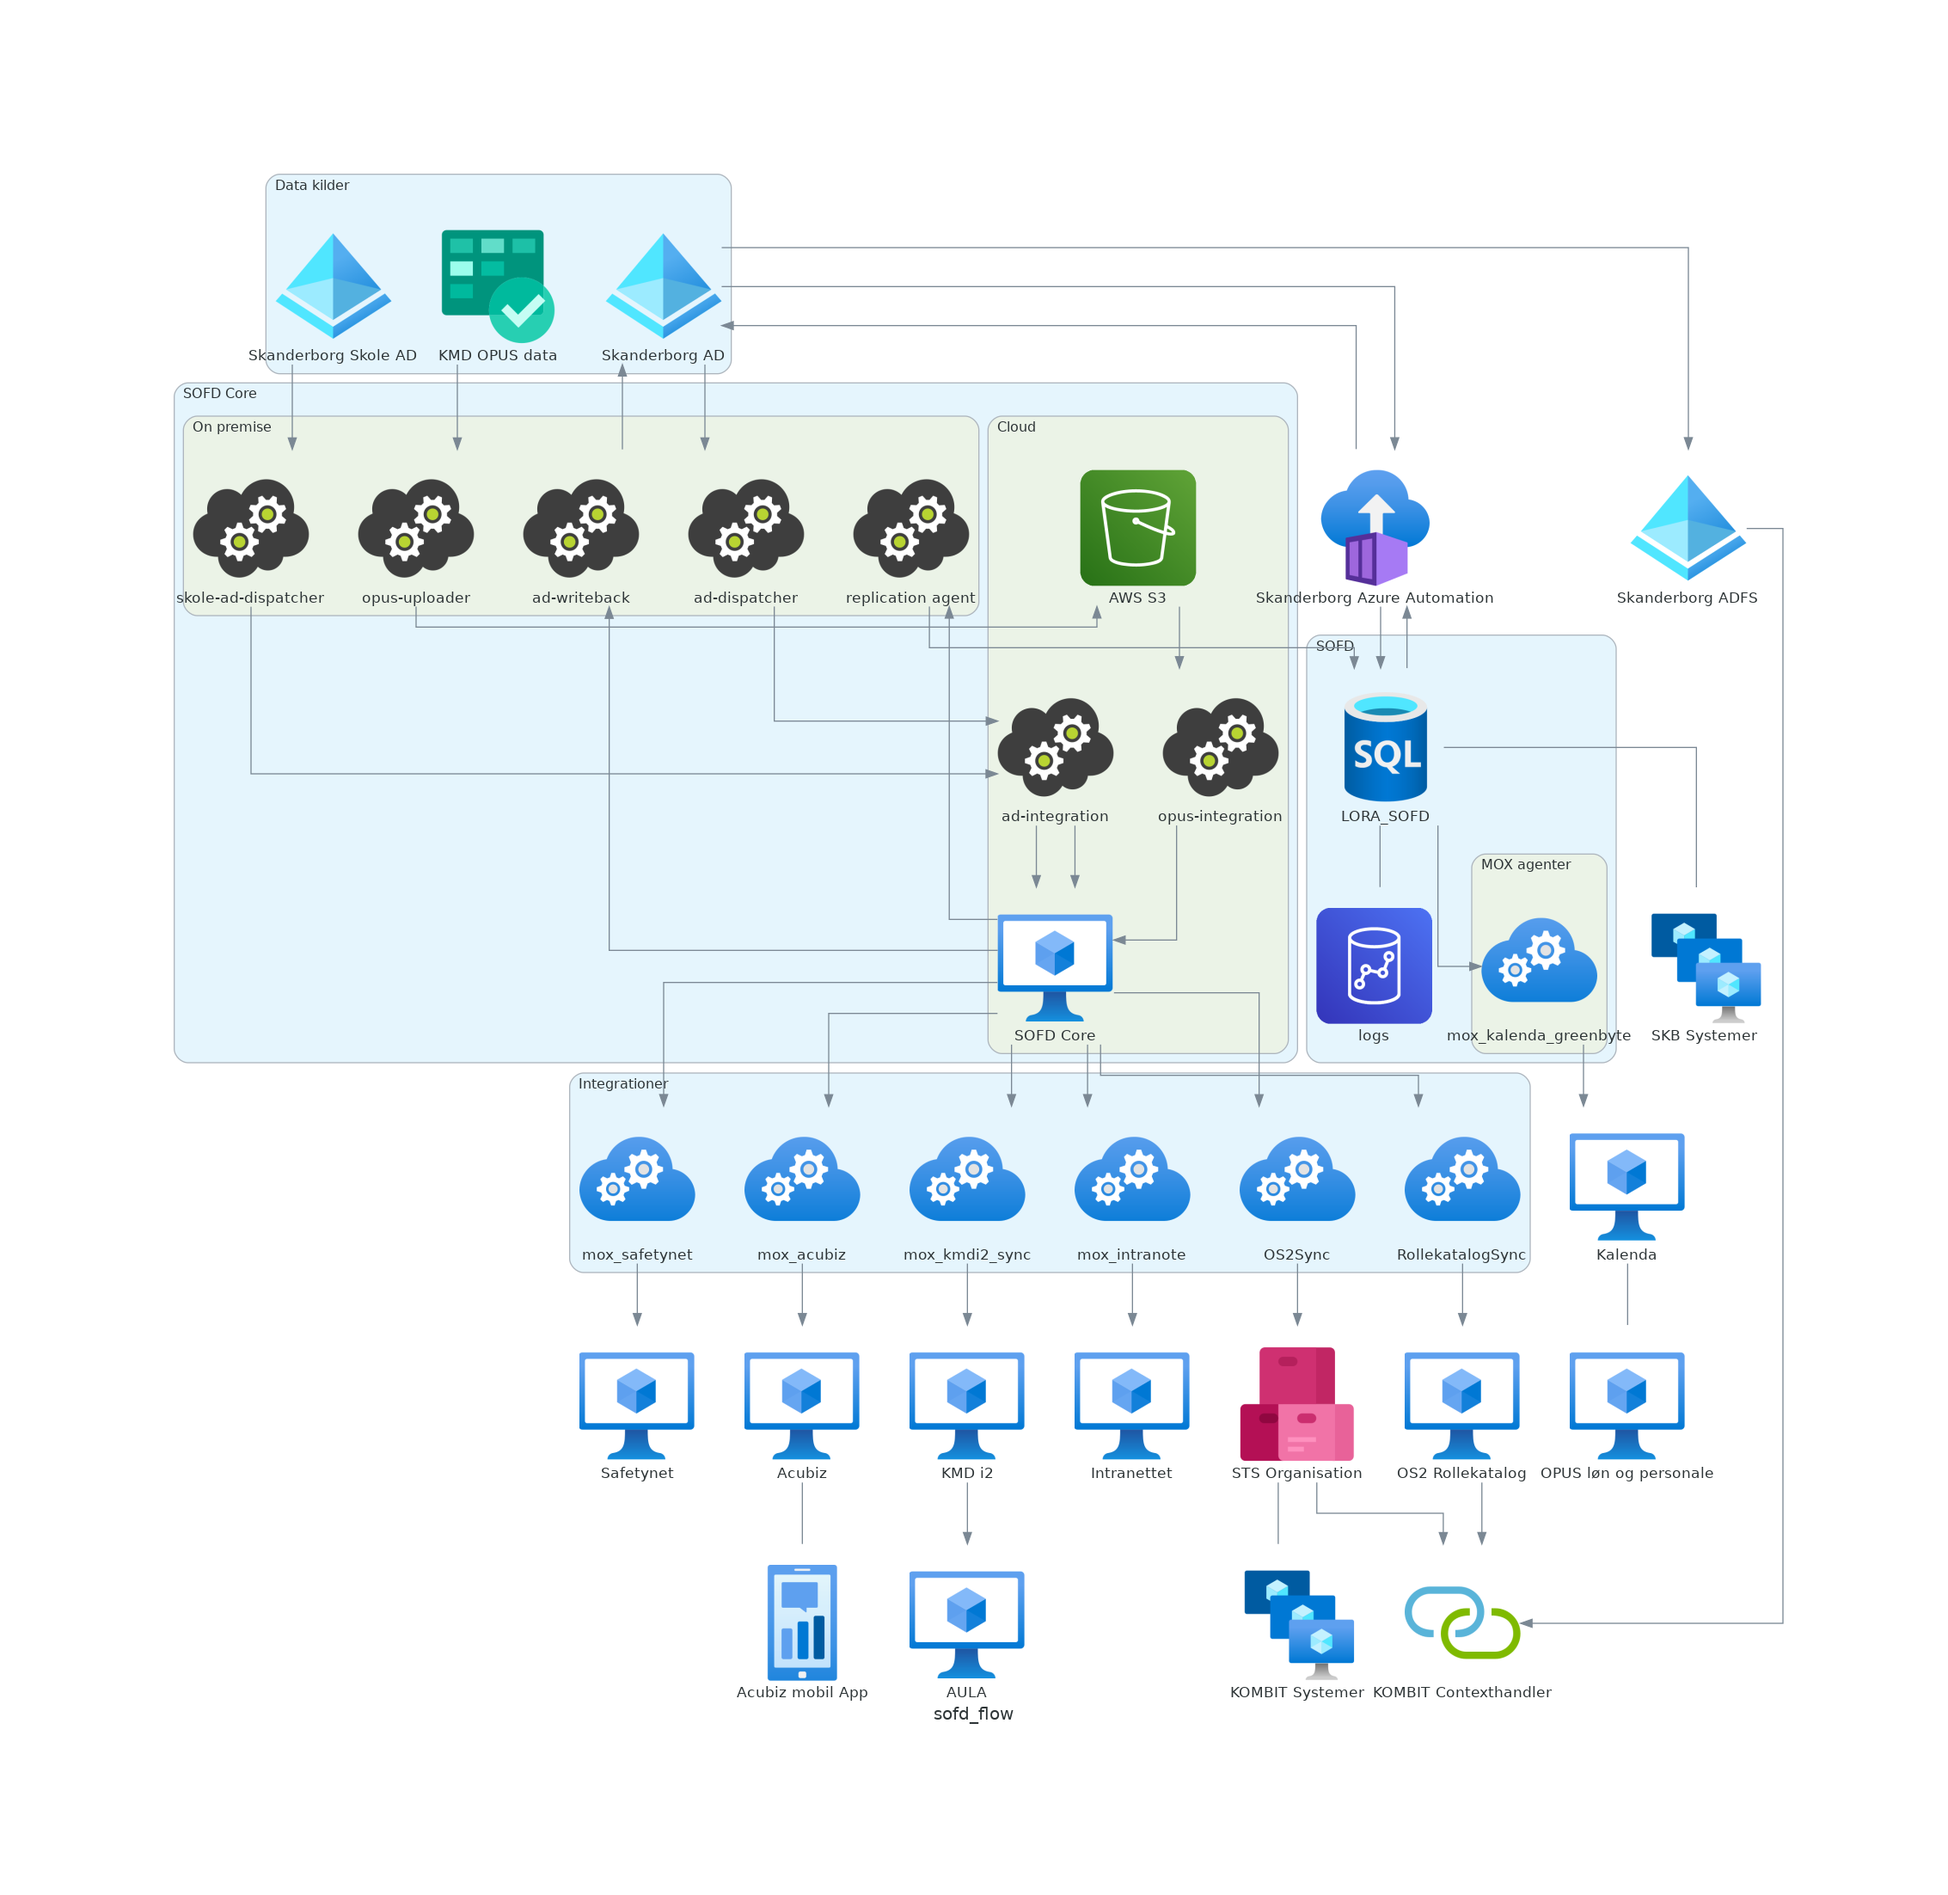
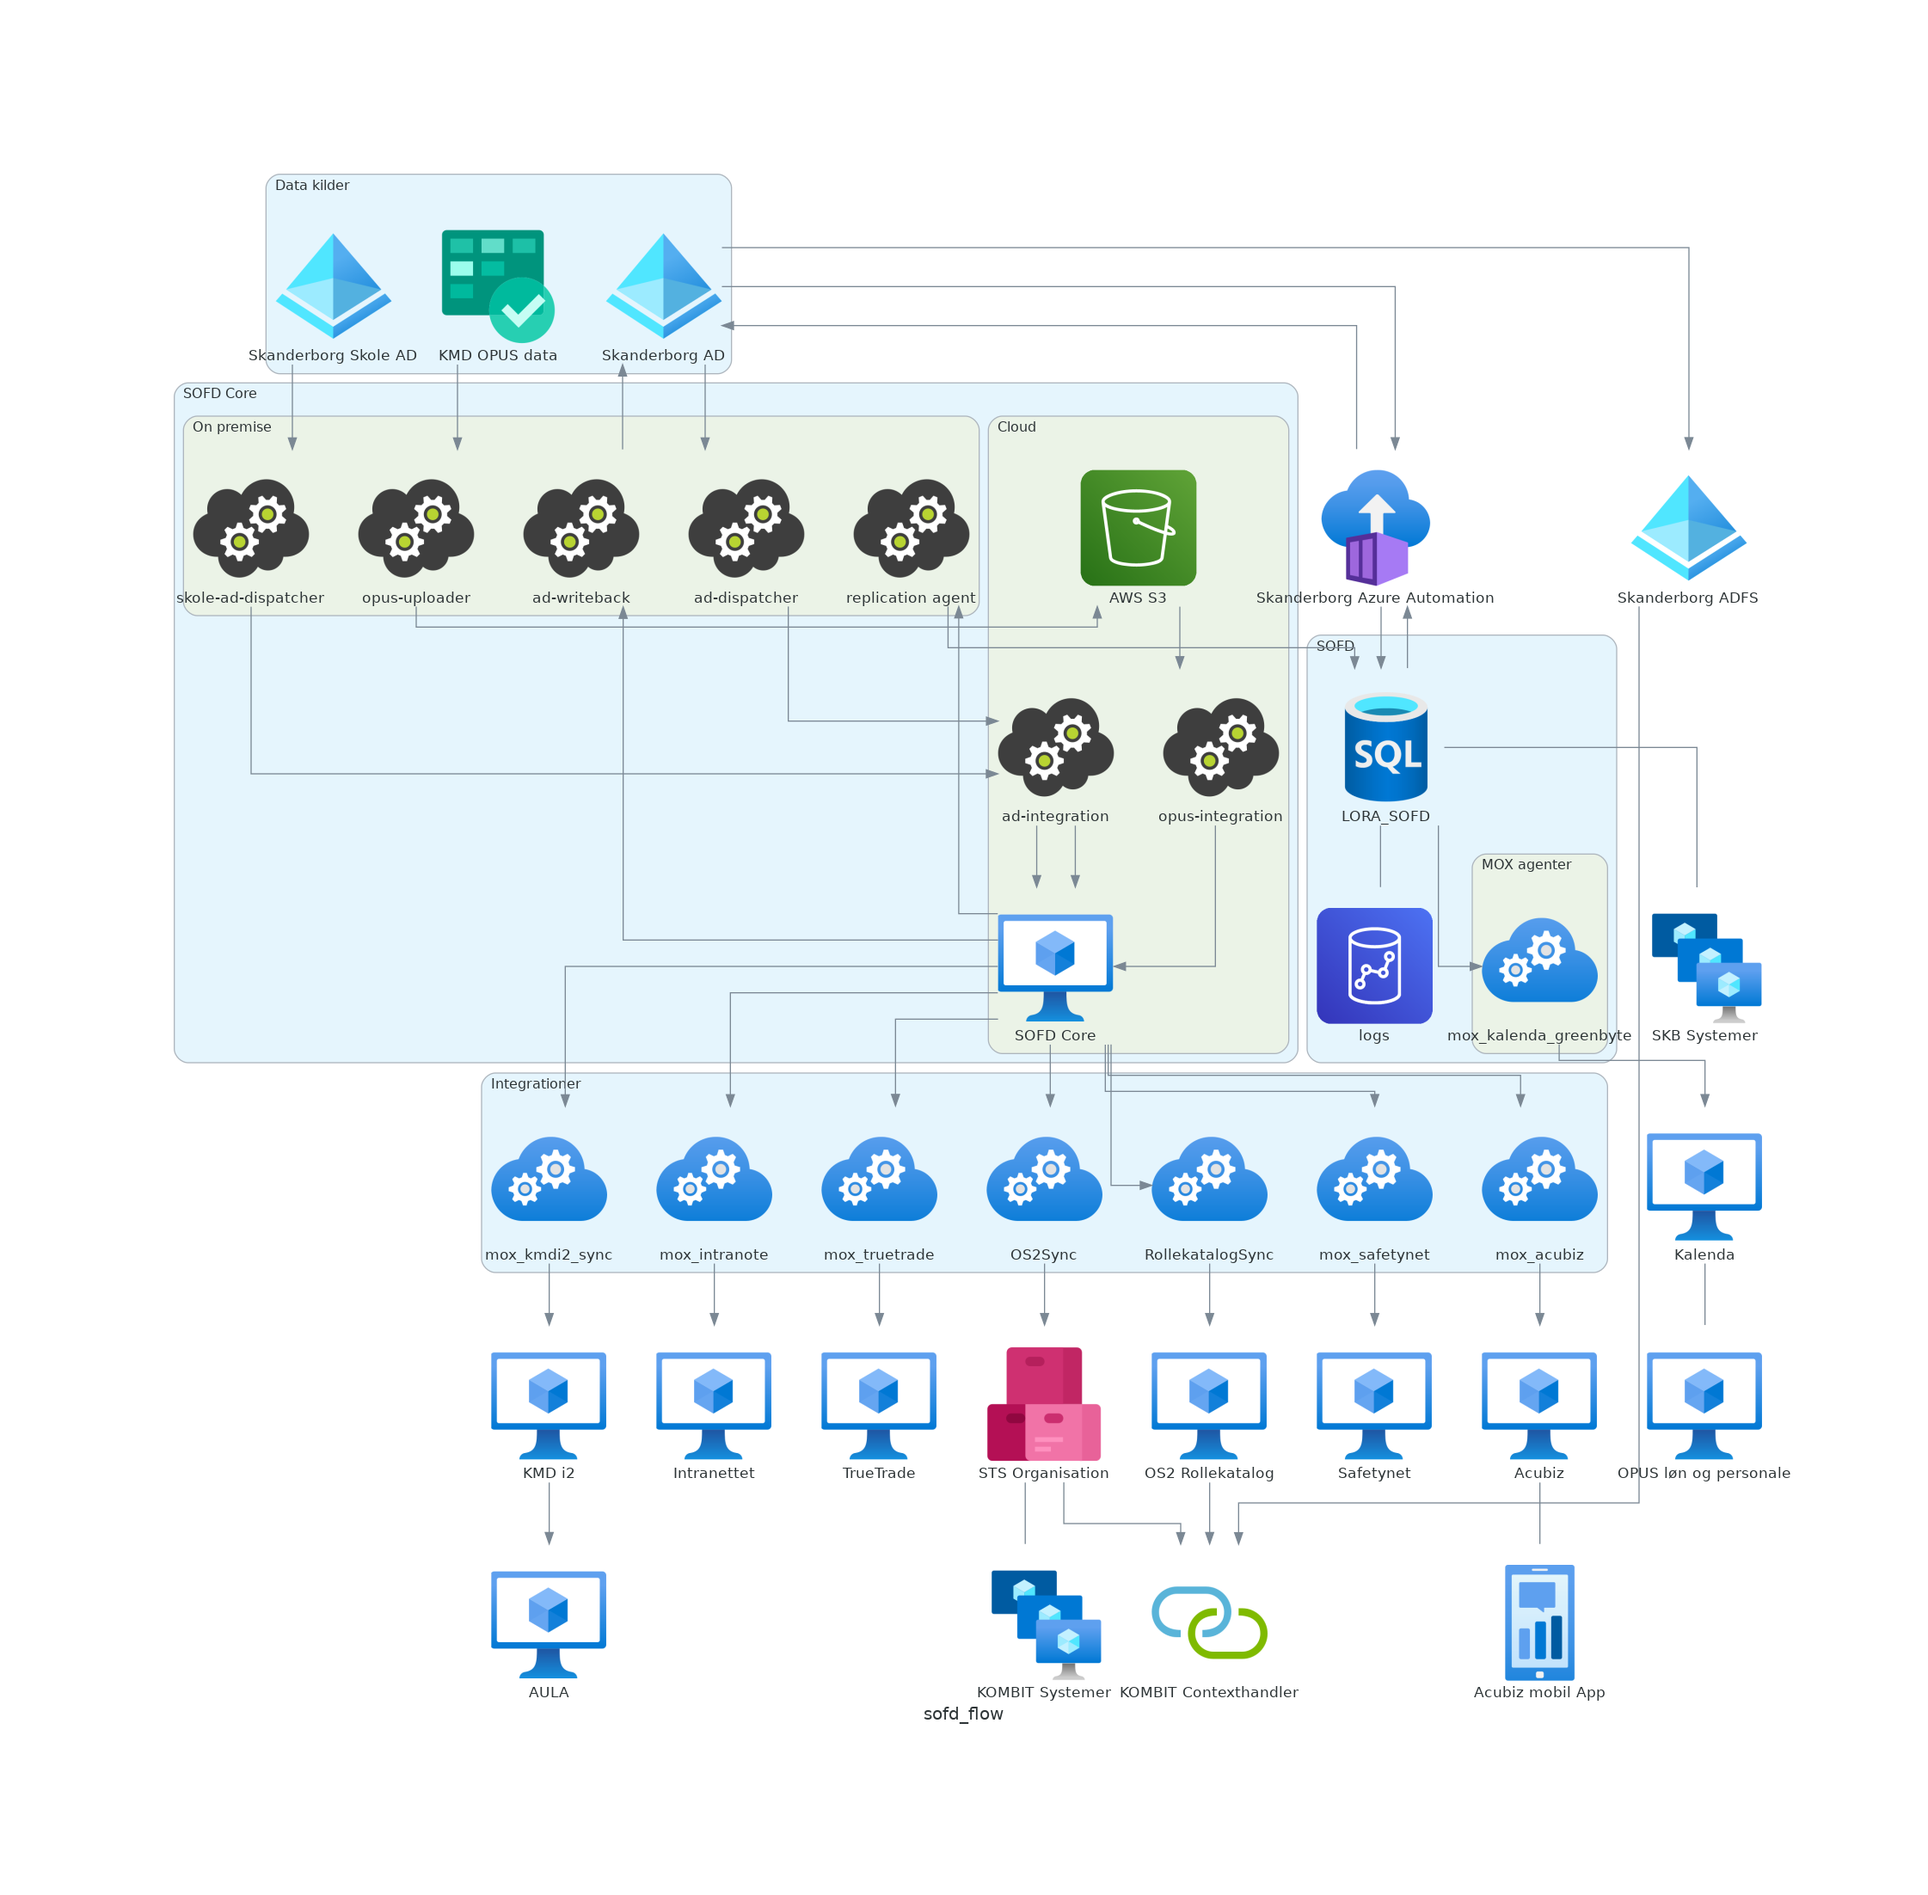
added TrueTrade to diagram

diff --git a/diagrams/sofd_diagram.py b/diagrams/sofd_diagram.py
@@ -42,6 +42,7 @@ with Diagram('sofd_flow', show=False, direction='TB'):
         mox_acubiz = CloudServicesClassic('mox_acubiz')
         mox_kmdi2 = CloudServicesClassic('mox_kmdi2_sync')
         mox_intranote = CloudServicesClassic('mox_intranote')
+        mox_truetrade = CloudServicesClassic('mox_truetrade')
         os2sync = CloudServicesClassic('OS2Sync')
         os2rollekatalogsync = CloudServicesClassic('RollekatalogSync')
 
@@ -64,6 +65,7 @@ with Diagram('sofd_flow', show=False, direction='TB'):
     acubiz - MobileEngagement('Acubiz mobil App')
     kombit_context_handler = APIConnections('KOMBIT Contexthandler')
     os2_rollekatalog = VMClassic('OS2 Rollekatalog')
+    truetrade = VMClassic('TrueTrade')
 
     #kø og mox
     ad_data >> adfs >> kombit_context_handler
@@ -71,6 +73,7 @@ with Diagram('sofd_flow', show=False, direction='TB'):
     sofd_core >> mox_acubiz >> acubiz
     sofd_core >> mox_safetynet >> safetynet
     sofd_core >> mox_intranote >> intranettet
+    sofd_core >> mox_truetrade >> truetrade
     sofd_core >> mox_kmdi2 >> kmd_i2 >> aula
     sofden >> mox_kalenda_greenbyte >> kalenda
     os2sync >> sts_org
